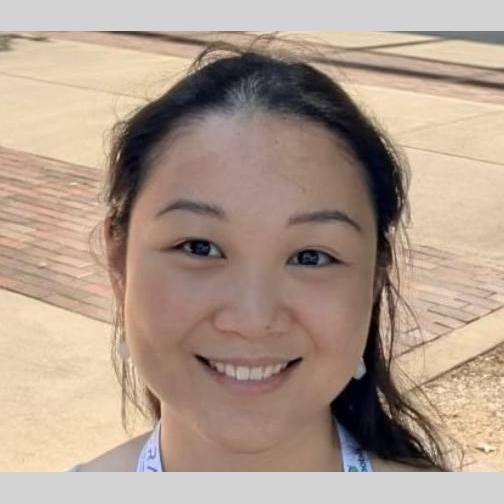
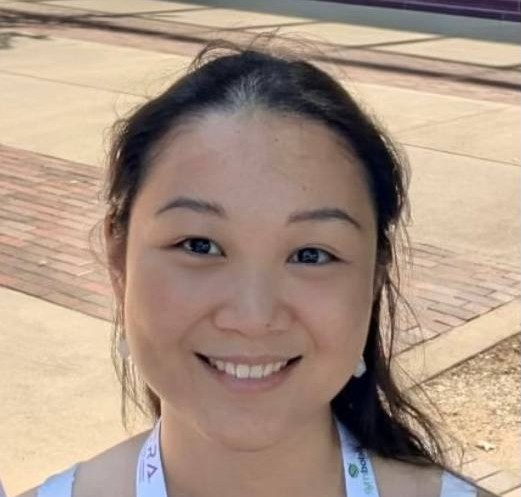
update

diff --git a/post/iros/index.html b/post/iros/index.html
@@ -1,6 +1,6 @@
 <!DOCTYPE html>
 <!-- This site was created with Wowchemy. https://www.wowchemy.com -->
-<!-- Last Published: June 6, 2025 --><html lang="en-us" >
+<!-- Last Published: June 7, 2025 --><html lang="en-us" >
 
 
 <head>
@@ -1021,7 +1021,7 @@
   <div class="media author-card content-widget-hr">
     
       
-      <a href="https://xijia.me/"><img class="avatar mr-3 avatar-circle" src="/authors/admin/avatar_huc1086d12c5b268b85c3d697e8ed39fe5_26923_270x270_fill_q75_lanczos_center.jpg" alt="Zhang Xi-Jia"></a>
+      <a href="https://xijia.me/"><img class="avatar mr-3 avatar-circle" src="/authors/admin/avatar_hu7a60d39a8c3b3d8f68dc25f306004576_47940_270x270_fill_q75_lanczos_center.jpg" alt="Zhang Xi-Jia"></a>
     
 
     <div class="media-body">

diff --git a/post/phd/index.html b/post/phd/index.html
@@ -1,6 +1,6 @@
 <!DOCTYPE html>
 <!-- This site was created with Wowchemy. https://www.wowchemy.com -->
-<!-- Last Published: June 6, 2025 --><html lang="en-us" >
+<!-- Last Published: June 7, 2025 --><html lang="en-us" >
 
 
 <head>
@@ -1019,7 +1019,7 @@
   <div class="media author-card content-widget-hr">
     
       
-      <a href="https://xijia.me/"><img class="avatar mr-3 avatar-circle" src="/authors/admin/avatar_huc1086d12c5b268b85c3d697e8ed39fe5_26923_270x270_fill_q75_lanczos_center.jpg" alt="Zhang Xi-Jia"></a>
+      <a href="https://xijia.me/"><img class="avatar mr-3 avatar-circle" src="/authors/admin/avatar_hu7a60d39a8c3b3d8f68dc25f306004576_47940_270x270_fill_q75_lanczos_center.jpg" alt="Zhang Xi-Jia"></a>
     
 
     <div class="media-body">

diff --git a/post/riss/index.html b/post/riss/index.html
@@ -1,6 +1,6 @@
 <!DOCTYPE html>
 <!-- This site was created with Wowchemy. https://www.wowchemy.com -->
-<!-- Last Published: June 6, 2025 --><html lang="en-us" >
+<!-- Last Published: June 7, 2025 --><html lang="en-us" >
 
 
 <head>
@@ -1044,7 +1044,7 @@
   <div class="media author-card content-widget-hr">
     
       
-      <a href="https://xijia.me/"><img class="avatar mr-3 avatar-circle" src="/authors/admin/avatar_huc1086d12c5b268b85c3d697e8ed39fe5_26923_270x270_fill_q75_lanczos_center.jpg" alt="Zhang Xi-Jia"></a>
+      <a href="https://xijia.me/"><img class="avatar mr-3 avatar-circle" src="/authors/admin/avatar_hu7a60d39a8c3b3d8f68dc25f306004576_47940_270x270_fill_q75_lanczos_center.jpg" alt="Zhang Xi-Jia"></a>
     
 
     <div class="media-body">

diff --git a/project/example/index.html b/project/example/index.html
@@ -1,6 +1,6 @@
 <!DOCTYPE html>
 <!-- This site was created with Wowchemy. https://www.wowchemy.com -->
-<!-- Last Published: June 6, 2025 --><html lang="en-us" >
+<!-- Last Published: June 7, 2025 --><html lang="en-us" >
 
 
 <head>
@@ -1001,7 +1001,7 @@
   <div class="media author-card content-widget-hr">
     
       
-      <a href="https://xijia.me/"><img class="avatar mr-3 avatar-circle" src="/authors/admin/avatar_huc1086d12c5b268b85c3d697e8ed39fe5_26923_270x270_fill_q75_lanczos_center.jpg" alt="Zhang Xi-Jia"></a>
+      <a href="https://xijia.me/"><img class="avatar mr-3 avatar-circle" src="/authors/admin/avatar_hu7a60d39a8c3b3d8f68dc25f306004576_47940_270x270_fill_q75_lanczos_center.jpg" alt="Zhang Xi-Jia"></a>
     
 
     <div class="media-body">

diff --git a/publication/conference-paper/index.html b/publication/conference-paper/index.html
@@ -1,6 +1,6 @@
 <!DOCTYPE html>
 <!-- This site was created with Wowchemy. https://www.wowchemy.com -->
-<!-- Last Published: June 6, 2025 --><html lang="en-us" >
+<!-- Last Published: June 7, 2025 --><html lang="en-us" >
 
 
 <head>
@@ -1083,7 +1083,7 @@
   <div class="media author-card content-widget-hr">
     
       
-      <a href="https://xijia.me/"><img class="avatar mr-3 avatar-circle" src="/authors/admin/avatar_huc1086d12c5b268b85c3d697e8ed39fe5_26923_270x270_fill_q75_lanczos_center.jpg" alt="Zhang Xi-Jia"></a>
+      <a href="https://xijia.me/"><img class="avatar mr-3 avatar-circle" src="/authors/admin/avatar_hu7a60d39a8c3b3d8f68dc25f306004576_47940_270x270_fill_q75_lanczos_center.jpg" alt="Zhang Xi-Jia"></a>
     
 
     <div class="media-body">

diff --git a/publication/journal-article/index.html b/publication/journal-article/index.html
@@ -1,6 +1,6 @@
 <!DOCTYPE html>
 <!-- This site was created with Wowchemy. https://www.wowchemy.com -->
-<!-- Last Published: June 6, 2025 --><html lang="en-us" >
+<!-- Last Published: June 7, 2025 --><html lang="en-us" >
 
 
 <head>
@@ -1071,7 +1071,7 @@
   <div class="media author-card content-widget-hr">
     
       
-      <a href="https://xijia.me/"><img class="avatar mr-3 avatar-circle" src="/authors/admin/avatar_huc1086d12c5b268b85c3d697e8ed39fe5_26923_270x270_fill_q75_lanczos_center.jpg" alt="Zhang Xi-Jia"></a>
+      <a href="https://xijia.me/"><img class="avatar mr-3 avatar-circle" src="/authors/admin/avatar_hu7a60d39a8c3b3d8f68dc25f306004576_47940_270x270_fill_q75_lanczos_center.jpg" alt="Zhang Xi-Jia"></a>
     
 
     <div class="media-body">

diff --git a/publication/preprint/index.html b/publication/preprint/index.html
@@ -1,6 +1,6 @@
 <!DOCTYPE html>
 <!-- This site was created with Wowchemy. https://www.wowchemy.com -->
-<!-- Last Published: June 6, 2025 --><html lang="en-us" >
+<!-- Last Published: June 7, 2025 --><html lang="en-us" >
 
 
 <head>
@@ -1093,7 +1093,7 @@
   <div class="media author-card content-widget-hr">
     
       
-      <a href="https://xijia.me/"><img class="avatar mr-3 avatar-circle" src="/authors/admin/avatar_huc1086d12c5b268b85c3d697e8ed39fe5_26923_270x270_fill_q75_lanczos_center.jpg" alt="Zhang Xi-Jia"></a>
+      <a href="https://xijia.me/"><img class="avatar mr-3 avatar-circle" src="/authors/admin/avatar_hu7a60d39a8c3b3d8f68dc25f306004576_47940_270x270_fill_q75_lanczos_center.jpg" alt="Zhang Xi-Jia"></a>
     
 
     <div class="media-body">

diff --git a/talk/example-talk/index.html b/talk/example-talk/index.html
@@ -1,6 +1,6 @@
 <!DOCTYPE html>
 <!-- This site was created with Wowchemy. https://www.wowchemy.com -->
-<!-- Last Published: June 6, 2025 --><html lang="en-us" >
+<!-- Last Published: June 7, 2025 --><html lang="en-us" >
 
 
 <head>
@@ -1061,7 +1061,7 @@
   <div class="media author-card content-widget-hr">
     
       
-      <a href="https://xijia.me/"><img class="avatar mr-3 avatar-circle" src="/authors/admin/avatar_huc1086d12c5b268b85c3d697e8ed39fe5_26923_270x270_fill_q75_lanczos_center.jpg" alt="Zhang Xi-Jia"></a>
+      <a href="https://xijia.me/"><img class="avatar mr-3 avatar-circle" src="/authors/admin/avatar_hu7a60d39a8c3b3d8f68dc25f306004576_47940_270x270_fill_q75_lanczos_center.jpg" alt="Zhang Xi-Jia"></a>
     
 
     <div class="media-body">

diff --git a/project/external-project/index.html b/project/external-project/index.html
@@ -1,6 +1,6 @@
 <!DOCTYPE html>
 <!-- This site was created with Wowchemy. https://www.wowchemy.com -->
-<!-- Last Published: June 6, 2025 --><html lang="en-us" >
+<!-- Last Published: June 7, 2025 --><html lang="en-us" >
 
 
 <head>
@@ -980,7 +980,7 @@
   <div class="media author-card content-widget-hr">
     
       
-      <a href="https://xijia.me/"><img class="avatar mr-3 avatar-circle" src="/authors/admin/avatar_huc1086d12c5b268b85c3d697e8ed39fe5_26923_270x270_fill_q75_lanczos_center.jpg" alt="Zhang Xi-Jia"></a>
+      <a href="https://xijia.me/"><img class="avatar mr-3 avatar-circle" src="/authors/admin/avatar_hu7a60d39a8c3b3d8f68dc25f306004576_47940_270x270_fill_q75_lanczos_center.jpg" alt="Zhang Xi-Jia"></a>
     
 
     <div class="media-body">

diff --git a/index.html b/index.html
@@ -1,6 +1,6 @@
 <!DOCTYPE html>
 <!-- This site was created with Wowchemy. https://www.wowchemy.com -->
-<!-- Last Published: June 6, 2025 --><html lang="en-us" >
+<!-- Last Published: June 7, 2025 --><html lang="en-us" >
 
 
 <head>
@@ -819,7 +819,7 @@
       
       <img class="avatar avatar-circle"
            width="270" height="270"
-           src="/authors/admin/avatar_huc1086d12c5b268b85c3d697e8ed39fe5_26923_270x270_fill_q75_lanczos_center.jpg" alt="Zhang Xi-Jia">
+           src="/authors/admin/avatar_hu7a60d39a8c3b3d8f68dc25f306004576_47940_270x270_fill_q75_lanczos_center.jpg" alt="Zhang Xi-Jia">
       
 
       <div class="portrait-title">

diff --git a/404.html b/404.html
@@ -1,6 +1,6 @@
 <!DOCTYPE html>
 <!-- This site was created with Wowchemy. https://www.wowchemy.com -->
-<!-- Last Published: June 6, 2025 --><html lang="en-us" >
+<!-- Last Published: June 7, 2025 --><html lang="en-us" >
 
 
 <head>

diff --git a/categories/index.html b/categories/index.html
@@ -1,6 +1,6 @@
 <!DOCTYPE html>
 <!-- This site was created with Wowchemy. https://www.wowchemy.com -->
-<!-- Last Published: June 6, 2025 --><html lang="en-us" >
+<!-- Last Published: June 7, 2025 --><html lang="en-us" >
 
 
 <head>
